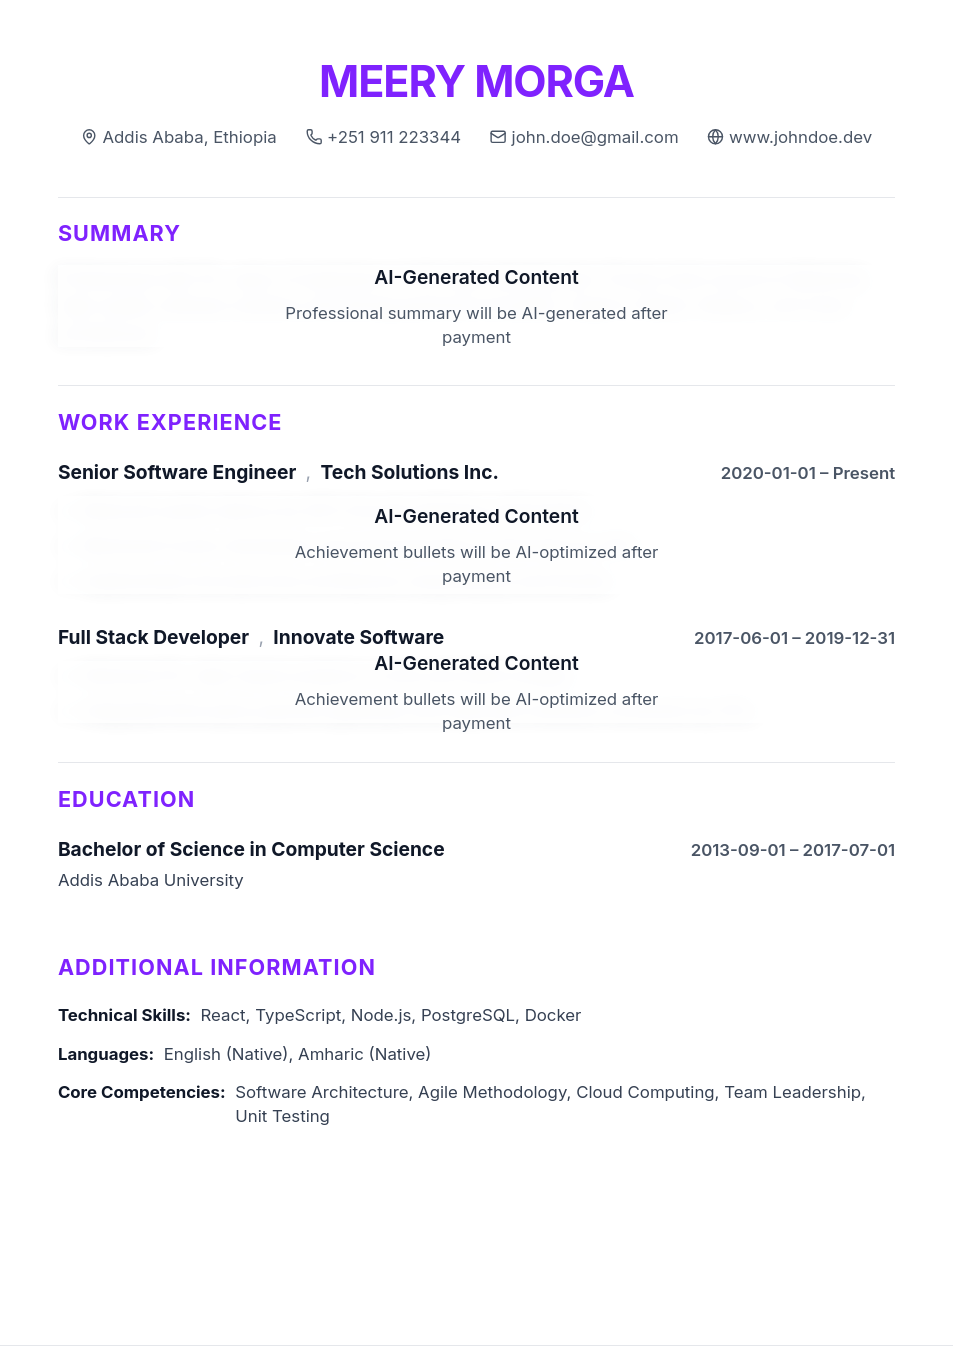
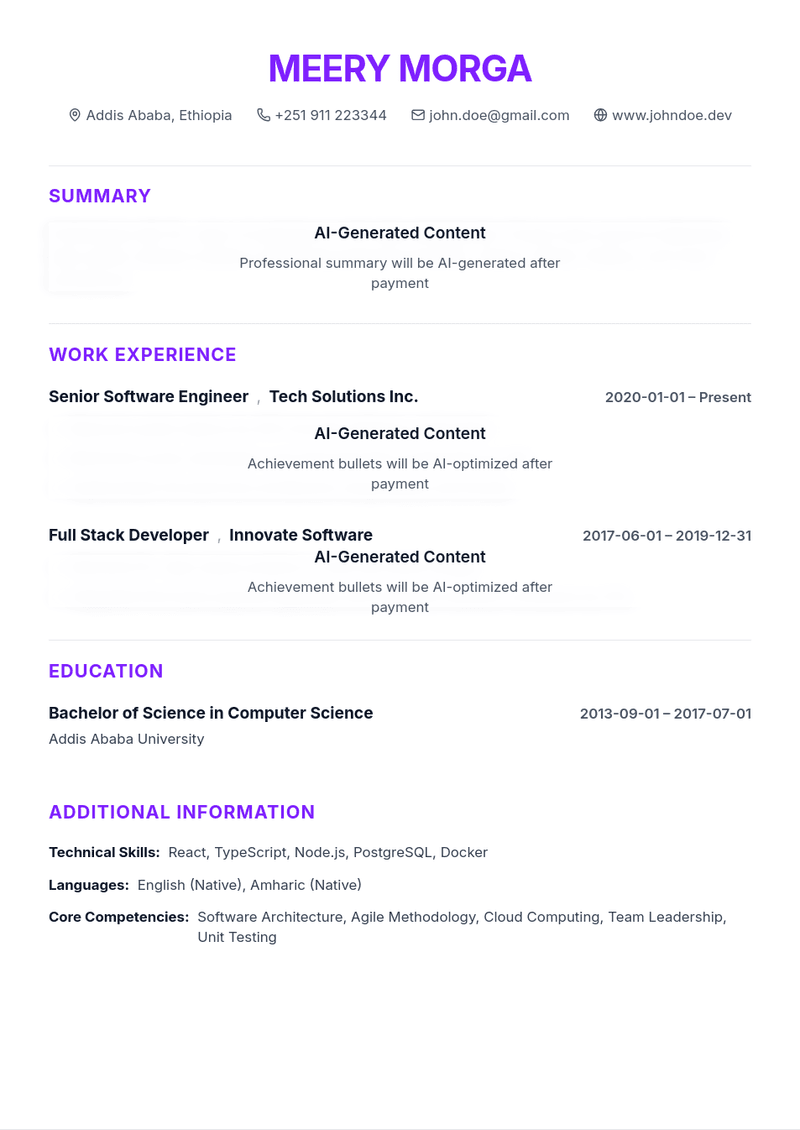
perf: optimize template gallery images and css

diff --git a/scripts/optimize-images.js b/scripts/optimize-images.js
@@ -2,36 +2,44 @@ const sharp = require('sharp');
 const fs = require('fs');
 const path = require('path');
 
-const targetDir = '/home/amde/Documents/ElaProject/paperless/public/images/auto play';
-const files = fs.readdirSync(targetDir);
+const targetDir = path.join(__dirname, '../public/images/templet-previev');
 
 async function optimize() {
+  if (!fs.existsSync(targetDir)) {
+     console.error(`Target directory not found: ${targetDir}`);
+     return;
+  }
+  
+  const files = fs.readdirSync(targetDir);
+  console.log(`Found ${files.length} files in ${targetDir}`);
+
   for (const file of files) {
-    if (file.endsWith('.png') || file.endsWith('.jpg')) {
+    if (file.toLowerCase().endsWith('.png') || file.toLowerCase().endsWith('.jpg') || file.toLowerCase().endsWith('.jpeg')) {
       const filePath = path.join(targetDir, file);
       const stats = fs.statSync(filePath);
       
       // If > 200KB, optimize it
       if (stats.size > 200 * 1024) {
         console.log(`Optimizing ${file} (${(stats.size / 1024 / 1024).toFixed(2)} MB)`);
-        const outputName = file.replace(/\.(png|jpg|jpeg)$/, '-opt.png');
-        const outputPath = path.join(targetDir, outputName);
+        const tempPath = path.join(targetDir, `temp-${file}`);
         
         try {
           await sharp(filePath)
-            .resize({ width: 1200, withoutEnlargement: true })
-            .png({ quality: 70, compressionLevel: 9 })
-            .toFile(outputPath);
+            .resize({ width: 800, withoutEnlargement: true })
+            .png({ quality: 75, compressionLevel: 9 })
+            .toFile(tempPath);
           
-          const newStats = fs.statSync(outputPath);
+          const newStats = fs.statSync(tempPath);
           console.log(`Successfully optimized ${file}. New size: ${(newStats.size / 1024).toFixed(2)} KB (Reduced by ${((1 - newStats.size / stats.size) * 100).toFixed(1)}%)`);
           
           // Replace original with optimized version
           fs.unlinkSync(filePath);
-          fs.renameSync(outputPath, filePath);
+          fs.renameSync(tempPath, filePath);
         } catch (err) {
           console.error(`Error optimizing ${file}:`, err);
         }
+      } else {
+        console.log(`Skipping ${file} (${(stats.size / 1024).toFixed(2)} KB)`);
       }
     }
   }

diff --git a/app/[locale]/resumes/templates/page.tsx b/app/[locale]/resumes/templates/page.tsx
@@ -15,7 +15,7 @@ export default async function TemplatesPage() {
 
         {/* Hero Section */}
         <div className="bg-white relative overflow-hidden pt-32 pb-20 border-b border-gray-100">
-          <div className="absolute inset-0 bg-[radial-gradient(#e5e7eb_1px,transparent_1px)] bg-size-[16px_16px] opacity-[0.4] pointer-events-none"></div>
+          <div className="hidden md:block absolute inset-0 bg-[radial-gradient(#e5e7eb_1px,transparent_1px)] bg-size-[16px_16px] opacity-[0.4] pointer-events-none"></div>
 
           <div className="container mx-auto px-4 text-center relative z-10">
             <div className="inline-flex items-center gap-2 px-3 py-1 rounded-full bg-blue-50 text-blue-700 text-xs font-bold uppercase tracking-wider mb-6 border border-blue-100">
@@ -33,7 +33,7 @@ export default async function TemplatesPage() {
 
         {/* Templates Grid Section */}
         <div className="container mx-auto px-4 py-16 -mt-8 relative z-20">
-          <div className="bg-white/80 lg:backdrop-blur-xl border border-white/50 rounded-3xl p-6 md:p-8 shadow-sm">
+          <div className="bg-white lg:bg-white/80 lg:backdrop-blur-xl border border-gray-100 lg:border-white/50 rounded-3xl p-4 md:p-8 shadow-sm">
             <div className="mb-10 flex flex-col md:flex-row justify-between items-end gap-4 border-b border-gray-100 pb-6">
               <div>
                 <h2 className="text-2xl font-bold text-gray-800">

diff --git a/components/templates/TemplateGallery.tsx b/components/templates/TemplateGallery.tsx
@@ -34,7 +34,7 @@ export function TemplateGallery() {
       {TEMPLATES.map((template, idx) => (
         <div
           key={template.id}
-          className="group relative bg-white rounded-xl shadow-sm md:shadow-md hover:shadow-2xl transition-all duration-300 overflow-hidden border border-gray-100 flex flex-col"
+          className="group relative bg-white rounded-xl shadow-xs md:shadow-md transition-shadow duration-300 overflow-hidden border border-gray-100 flex flex-col transform-gpu"
         >
           {/* Badge overlays */}
           <div className="absolute top-3 left-3 z-10 flex gap-2">
